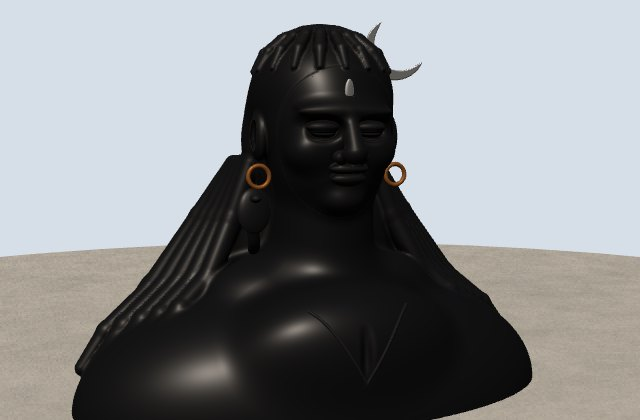
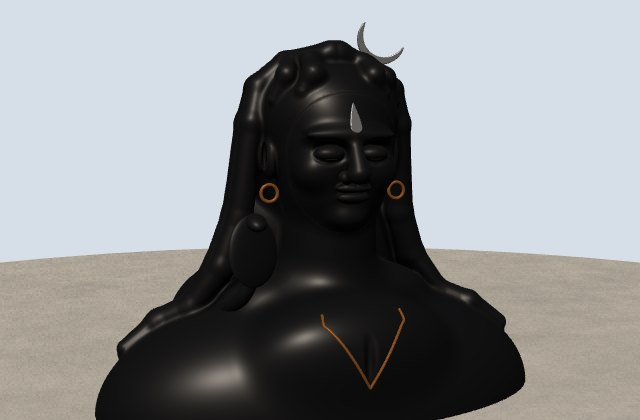
Adiyogi from photographs on every side: ropes of hair, the cobra on the shoulder, closed eyes
After photographs from the front, both profiles, below and behind (Wikimedia
Commons). The hair is now thick wavy ropes running from the crown over the head
and down the sides and the back to the ground, the ears left bare. The cobra
stands on his right shoulder with a broad hood. The third eye is a tall white
flame, the crescent thin and standing on the hair, the eyes fully closed, the
cord on the chest thin and dull.

Claude-Session: https://claude.ai/code/session_01TMbkMSndjAtdLzBZus9Ji6

diff --git a/js/monuments/adiyogi.js b/js/monuments/adiyogi.js
@@ -4,17 +4,19 @@ import { ellipsoid as E, cone, chain, blend, carve, mirrorX, flatBase, bounded, 
 import { detail } from '../detail.js';
 import { addDetails } from '../details/adiyogi.js';
 
-// Adiyogi at the Isha Yoga Centre near Coimbatore (2017), from photographs: a bust of Shiva as the
-// first yogi, 112 ft (34.24 m) high, 45 m across and 25 m deep, of black steel, at the foot of the
-// Velliangiri hills. The head, half the statue's height, stands on a thick neck that rises out of
-// very broad shoulders, which slope away to the ground on either side like a mound: there are no
-// arms. The face is calm and smooth, the eyes closed under arched lids, the lips full and a little
-// smiling; the third eye is a pale upright almond of bright steel on the brow. The hair is a mass
-// of matted locks piled into a knot, with a large pale crescent moon standing out of it on his
-// left, and it falls behind the neck in a broad cloak that spreads over the shoulders, long locks
-// running down them to the ground. A copper ring hangs in each ear. A cobra coils round the foot
-// of the neck and rears its hood beside it on his right, and a thin cord hangs in a V on the
-// chest. The bust faces +z; it stands on a low platform BASE high.
+// Adiyogi at the Isha Yoga Centre near Coimbatore (2017), from photographs taken from the front,
+// both sides, below and behind (Wikimedia Commons, "Adiyogi Shiva bust" and the Isha Yoga Centre
+// series): a bust of Shiva as the first yogi, 112 ft (34.24 m) high, 45 m across and 25 m deep, of
+// black steel, at the foot of the Velliangiri hills. The head, half the statue's height, stands on
+// a thick neck that rises out of very broad shoulders, which slope away to the ground on either
+// side like a mound: there are no arms. The face is calm and smooth, the eyes closed, the brows
+// arched, the lips full and a little smiling; the third eye is a tall white flame on the brow.
+// The hair is a mass of thick wavy ropes that start at the crown, sweep back over the head and
+// fall down the sides and the back to the shoulders and the ground, twice as deep as the head
+// behind. A thin bright crescent stands on the hair on his left, and a copper ring hangs in each
+// ear. A cobra stands on his right shoulder beside the neck, its broad hood spread and facing
+// forward as high as the jaw, and a thin cord hangs in a V on the chest. The bust faces +z; it
+// stands on a terrace BASE high.
 export const STEEL = mat('#1f1f22', 0.36, 0.55), BASE = 1.6, H = 34.24;
 const BRIGHT = mat('#c9ccd0', 0.3, 0.8), COPPER = mat('#b9753a', 0.35, 0.8);
 // The head's layout, after the face of the seated Shiva (js/parts/figures.js), in units P maps to
@@ -22,16 +24,30 @@ const BRIGHT = mat('#c9ccd0', 0.3, 0.8), COPPER = mat('#b9753a', 0.35, 0.8);
 const S = 0.62, HY = 24.3, HZ = 1.0;
 const P = (x, y, z) => [x * S, HY + y * S * 1.08, HZ + z * S], k = (v) => v * S;
 
-// The long locks over each shoulder: from behind the ear, down beside the neck and out along the
-// slope of the shoulder to the ground, five a side, fanning backwards.
-function locks(sx) {
-  return [0, 1, 2, 3, 4].map((j) => chain([
-    [sx * (6.2 + 0.25 * j), 21.5, -2.4 - 0.6 * j, 0.8],
-    [sx * (8.0 + 0.6 * j), 16.5, -2.4 - 0.7 * j, 1.0],
-    [sx * (10.5 + 1.2 * j), 11.2 - 0.35 * j, -1.2 - 0.9 * j, 1.0],
-    [sx * (13.2 + 1.5 * j), 9.0 - 0.6 * j, 0.2 - 1.0 * j, 0.9],
-    [sx * (15.4 + 1.5 * j), 6.6 - 0.75 * j, 1.2 - 1.1 * j, 0.7],
-  ], 0.3));
+// The top of the mound of the shoulders at (x, z), or 0 beyond it.
+const mound = (x, z) => { const q = 1 - (x / 22.5) ** 2 - ((z + 1) / 11.5) ** 2; return q > 0 ? 11.5 * Math.sqrt(q) : 0; };
+// The ropes of hair: each starts at the crown, runs over the head towards its own side (phi, the
+// angle from the front) and falls beside the neck and down the shoulders or the back, waving from
+// side to side as it goes. C is the middle of the hair's cap.
+function ropes(C) {
+  const out = [];
+  for (const sx of [-1, 1]) for (let i = 0; i < 10; i++) {
+    const phi0 = sx * (1.52 + i * 0.178), ph = i * 1.7 + (sx > 0 ? 0.6 : 0), pts = [[0.4 * sx, C[1] + 6.1, C[2] + 2.6, 1.0]];
+    const wave = (t) => phi0 + 0.13 * Math.sin(ph + t * 5.2);
+    [[1.02, 1.05], [0.5, 1.2], [-0.05, 1.25]].forEach(([e, r], n) => { const a = wave(n + 1); pts.push([C[0] + 7.5 * Math.sin(a) * Math.cos(e), C[1] + 6.3 * Math.sin(e), C[2] + 7.7 * Math.cos(a) * Math.cos(e), r]); });
+    [[8.8, 18.2], [10.6, 13.6], [13.2, 0], [16.2, 0], [19.4, 0]].forEach(([R, y], n) => {
+      const a = wave(n + 4), x = R * Math.sin(a), z = Math.max(-14.6, R * 0.8 * Math.cos(a) - 2.2);
+      pts.push([x, y || Math.max(0.6, mound(x, z) + 0.35), z, n < 4 ? 1.25 : 0.9]);
+    });
+    out.push([chain(pts, 0.4), 0.5]);
+  }
+  // Shorter ropes over the temples, from the crown down to above the ears, which stay bare.
+  for (const sx of [-1, 1]) for (const [a, e1] of [[0.62, 0.42], [1.08, 0.3]]) {
+    const pts = [[0.4 * sx, C[1] + 6.1, C[2] + 2.6, 0.9]];
+    for (const [e, r, w, q] of [[1.0, 1.0, 0.1, 1], [0.68, 1.1, -0.08, 1], [e1, 0.5, 0.06, 0.95]]) pts.push([C[0] + 7.4 * q * Math.sin(sx * (a + w)) * Math.cos(e), C[1] + 6.3 * Math.sin(e), C[2] + 7.6 * q * Math.cos(a + w) * Math.cos(e), r]);
+    out.push([chain(pts, 0.4), 0.5]);
+  }
+  return blend(out);
 }
 
 function adiyogiField() {
@@ -58,44 +74,32 @@ function adiyogiField() {
     [mirrorX(E(P(9.9, -0.4, -0.6), [k(1.3), k(3.5), k(2.5)])), k(0.6)],
   ]);
   head = carve(head, mirrorX(E(P(3.4, 0.5, 9.2), [k(2.4), k(1.5), k(2.0)])), k(0.9));
-  // The eyes half closed: the eyeball low in its socket, the upper lid heavy and drawn down over
-  // most of it, the lower lid a thin rim; full lips, the corners turned a little up.
+  // The eyes closed: the upper lid drawn right down over the eyeball to meet the lower, the line
+  // between them a shallow curve; full lips, the corners turned a little up.
   head = blend([[head, 0],
-    [mirrorX(E(P(3.4, 0.3, 7.8), [k(1.9), k(1.1), k(1.5)])), k(0.2)],
-    [mirrorX(E(P(3.4, 0.75, 8.1), [k(2.25), k(0.85), k(1.45)])), k(0.25)],
+    [mirrorX(E(P(3.4, 0.15, 8.35), [k(2.2), k(1.2), k(1.6)])), k(0.45)],
     [mirrorX(E(P(3.45, -0.85, 8.0), [k(1.9), k(0.3), k(0.95)])), k(0.3)],
     [E(P(0, -4.4, 9.4), [k(2.7), k(0.75), k(1.1)]), k(0.5)],
     [E(P(0, -5.65, 9.1), [k(2.4), k(0.9), k(1.1)]), k(0.5)]]);
   // The slit between the lids, the line between the lips, the philtrum, the ears' hollows.
-  head = carve(head, mirrorX(E(P(3.4, 0.02, 9.2), [k(1.7), k(0.12), k(0.7)])), k(0.12));
+  head = carve(head, mirrorX(E(P(3.4, -0.5, 9.85), [k(1.75), k(0.1), k(0.5)])), k(0.1));
+  head = carve(head, mirrorX(E(P(2.9, -4.85, 9.5), [k(0.3), k(0.22), k(0.3)])), k(0.2));
   head = carve(head, E(P(0, -5.05, 10.0), [k(2.7), k(0.17), k(1.0)]), k(0.2));
-  head = carve(head, E(P(0, -3.65, 10.25), [k(0.35), k(0.6), k(0.3)]), k(0.15));
+  head = carve(head, E(P(0, -3.65, 10.4), [k(0.3), k(0.5), k(0.2)]), k(0.2));
   head = carve(head, mirrorX(E(P(10.7, -0.2, -0.2), [k(0.5), k(2.0), k(1.2)])), k(0.25));
-  // The hair: a cap of locks over the skull, from a hairline high on the brow, and the knot,
-  // three rings of piled locks rising to the top; and the locks down the back.
-  const hair = blend([
-    [E(P(0, 4.8, -2.4), [k(10.6), k(9.6), k(11.0)]), 0],
-    [E(P(0, 10.4, -2.6), [k(6.2), k(2.8), k(5.8)]), k(1.4)],
-    [E(P(0, 12.8, -2.9), [k(4.4), k(2.1), k(4.2)]), k(1.0)],
-    [E(P(0, -1.0, -6.5), [k(11.0), k(12.0), k(6.0)]), k(2.0)],
+  // The hair: a full cap over the skull from a hairline high on the brow, deeper behind than the
+  // head itself, and the mass that falls behind the neck and spreads over the back of the
+  // shoulders; the ropes lie on both.
+  const C = P(0, 4.8, -3.0);
+  const cap = blend([
+    [E(C, [7.0, 6.2, 7.4]), 0],
+    [E(P(0, -1.0, -7.5), [k(11.4), k(12.0), k(7.0)]), k(2.0)],
   ]);
-  // The cloak of hair behind the neck, spreading over the shoulders.
-  const cloak = blend([[E([0, 15, -5.4], [10.5, 9, 4.6]), 0], [E([0, 8.5, -6.8], [16.5, 6.5, 4.8]), 3]]);
-  // Grooves between the coils of the knot and the locks of the cap.
-  let hairC = hair;
-  for (const [y, r] of [[9.2, 6.4], [11.6, 5.2], [13.6, 3.6]]) hairC = carve(hairC, (x, yy, z) => Math.hypot(Math.hypot(x, (z - P(0, 0, -2.6)[2]) * 1.05) - k(r), yy - P(0, y, 0)[1]) - k(0.35), k(0.3));
-  // The matted locks: ropes of hair running back from the hairline over the cap to the knot.
-  const C = P(0, 4.8, -2.4), ropes = [];
-  for (let i = -7; i <= 7; i++) {
-    const phi = i * 0.36, pts = [];
-    for (const [e, r] of [[0.4, 0.45], [0.7, 0.85], [1.02, 0.95], [1.3, 0.95]]) pts.push([C[0] + k(10.7) * Math.sin(phi) * Math.cos(e), C[1] + k(9.7) * Math.sin(e), C[2] + k(11.1) * Math.cos(phi) * Math.cos(e), k(r)]);
-    ropes.push([chain(pts, k(0.3)), k(0.35)]);
-  }
-  const headB = bounded(blend([[head, 0], [blend([[hairC, 0], ...ropes]), k(0.6)]]), [0, 25.5, -0.5], 13.5, 1.5);
-  const lockL = locks(-1), lockR = locks(1);
-  const locksF = blend([...lockL, ...lockR].map((f) => [f, 0.2]));
-  const all = (x, y, z) => smin(smin(smin(body(x, y, z), headB(x, y, z), 1.2), cloak(x, y, z), 0.8), locksF(x, y, z), 0.45);
-  return { f: flatBase(all, 0, 0.3), lo: [-24, -0.2, -14], hi: [24, H + 0.6, 12.5], head };
+  const headB = bounded(blend([[head, 0], [cap, k(0.6)]]), [0, 25.5, -0.5], 14.5, 1.5);
+  const fall = blend([[E([0, 15, -6.2], [9.5, 10, 5.0]), 0], [E([0, 7.5, -7.6], [14.5, 7.5, 5.6]), 3]]);
+  const hairF = blend([[fall, 0], [ropes(C), 0.6]]);
+  const all = (x, y, z) => smin(smin(body(x, y, z), headB(x, y, z), 1.2), hairF(x, y, z), 0.6);
+  return { f: flatBase(all, 0, 0.3), lo: [-24, -0.2, -16.5], hi: [24, H + 1.6, 12.5], head };
 }
 
 let fieldP = null;
@@ -113,43 +117,44 @@ function bustMesh() {
 // What is laid on the skin: the cobra, the cord, the crescent, the third eye and the earrings.
 function ornaments() {
   const f = parts().f, g = new THREE.Group(), V = (p) => new THREE.Vector3(...p);
-  // The cobra: its body comes round the back of the neck and over his right shoulder, then rises
-  // beside the neck, the hood spread and facing forward at the height of the jaw.
-  const coil = [[4.2, 13.2, -4.4], [0, 13.4, -5.7], [-4.2, 13.4, -4.2], [-6.1, 13.7, -1.6]];
-  const rise = [[-6.6, 14.6, 0.4], [-6.9, 15.9, 1.1], [-7.0, 17.0, 1.7]];
-  const curve = new THREE.CatmullRomCurve3([...coil, ...rise].map(V));
-  g.add(mesh(new THREE.TubeGeometry(curve, detail.low ? 60 : 120, 0.55, detail.low ? 8 : 12, false), STEEL));
-  const hood = mesh(new THREE.SphereGeometry(1, 20, 14), STEEL, -7.0, 17.6, 1.9);
-  hood.scale.set(1.5, 2.0, 0.5);
-  hood.rotation.x = -0.15;
-  const snout = mesh(new THREE.SphereGeometry(0.55, 14, 10), STEEL, -7.0, 18.7, 2.5);
-  snout.scale.set(0.9, 0.7, 1.3);
+  // The cobra on his right shoulder: its body comes out of the hair behind, rises beside the neck
+  // and spreads a broad hood, hollowed in front, with the head at its top looking forward.
+  const body = new THREE.CatmullRomCurve3([[-11.2, 9.2, -1.2], [-10.3, 10.2, 1.4], [-9.4, 11.4, 3.0], [-8.8, 13.0, 3.6], [-8.6, 14.4, 3.7]].map(V));
+  g.add(mesh(new THREE.TubeGeometry(body, 40, 0.75, 12, false), STEEL));
+  const hood = mesh(new THREE.SphereGeometry(1, 28, 20), STEEL, -8.6, 15.6, 3.8);
+  hood.scale.set(2.5, 3.3, 0.6);
+  hood.rotation.set(-0.12, 0.25, 0);
+  const snout = mesh(new THREE.SphereGeometry(1, 16, 12), STEEL, -8.5, 18.3, 4.6);
+  snout.scale.set(0.95, 0.7, 1.35);
+  snout.rotation.x = 0.35;
   g.add(hood, snout);
   // The cord: two thin lines from the sides of the neck, meeting low on the chest.
   for (const sx of [-1, 1]) {
     const pts = [];
     for (let i = 0; i <= 14; i++) { const t = i / 14; pts.push([sx * 4.8 * (1 - t), 12.2 - 8.2 * t, 12]); }
-    g.add(mesh(new THREE.TubeGeometry(new THREE.CatmullRomCurve3(onSkin(f, pts, 0.1).map(V)), 60, 0.14, 6), STEEL));
+    g.add(mesh(new THREE.TubeGeometry(new THREE.CatmullRomCurve3(onSkin(f, pts, 0.1).map(V)), 60, 0.14, 6), COPPER));
   }
-  // The crescent in the knot, on his left: of bright steel, its belly against the hair, one horn
-  // in the locks and the other standing out to the side.
-  const R = 2.7, lune = new THREE.Shape(), N = 28;
-  for (let i = 0; i <= N; i++) { const a = (i / N * 2 - 1) * 1.85; lune[i ? 'lineTo' : 'moveTo'](R * Math.cos(a), R * Math.sin(a)); }
-  for (let i = N; i >= 0; i--) { const t = i / N * 2 - 1, a = t * 1.85, r = R - 0.85 * (1 - t * t) ** 0.8; lune.lineTo(r * Math.cos(a), r * Math.sin(a)); }
-  const moon = mesh(new THREE.ExtrudeGeometry(lune, { depth: 0.3, bevelEnabled: true, bevelThickness: 0.08, bevelSize: 0.08, bevelSegments: 2 }).translate(0, 0, -0.15), BRIGHT);
-  moon.position.set(6.3, 31.9, HZ + k(1.5));
-  moon.rotation.set(0, -0.25, 3.95);
+  // The crescent standing on the hair, on his left: thin, of bright steel, its horns turned up.
+  const R = 2.3, lune = new THREE.Shape(), N = 28;
+  for (let i = 0; i <= N; i++) { const a = (i / N * 2 - 1) * 1.8; lune[i ? 'lineTo' : 'moveTo'](R * Math.cos(a), R * Math.sin(a)); }
+  for (let i = N; i >= 0; i--) { const t = i / N * 2 - 1, a = t * 1.8, r = R - 0.6 * (1 - t * t) ** 0.8; lune.lineTo(r * Math.cos(a), r * Math.sin(a)); }
+  const moon = mesh(new THREE.ExtrudeGeometry(lune, { depth: 0.26, bevelEnabled: true, bevelThickness: 0.07, bevelSize: 0.07, bevelSegments: 2 }).translate(0, 0, -0.13), BRIGHT);
+  moon.position.set(5.0, 35.3, HZ + k(0.4));
+  moon.rotation.set(0, -0.2, 4.15);
   g.add(moon);
-  // The third eye: a pale upright almond on the brow.
-  const eye = mesh(new THREE.SphereGeometry(1, 16, 20), BRIGHT);
-  eye.scale.set(0.42, 1.15, 0.16);
-  // Set on the brow by stepping in along z until the skin is met.
-  let ez = 10;
-  while (f(0, P(0, 5.0, 0)[1], ez) > 0 && ez > 4) ez -= 0.02;
-  eye.position.set(0, P(0, 5.0, 0)[1], ez);
+  // The third eye: a tall white flame on the brow, round below and pointed above.
+  const flame = new THREE.Shape();
+  for (let i = 0; i <= 24; i++) { const a = Math.PI + (i / 24) * Math.PI; flame[i ? 'lineTo' : 'moveTo'](0.5 * Math.cos(a), 0.5 * Math.sin(a)); }
+  flame.quadraticCurveTo(0.42, 1.0, 0, 2.3); flame.quadraticCurveTo(-0.42, 1.0, -0.5, 0);
+  const eye = mesh(new THREE.ExtrudeGeometry(flame, { depth: 0.2, bevelEnabled: true, bevelThickness: 0.06, bevelSize: 0.06, bevelSegments: 2 }), BRIGHT);
+  // Set on the brow by stepping in along z until the skin is met, and leant back with it.
+  const ey = P(0, 3.6, 0)[1], skin = (y) => { let z = 11; while (f(0, y, z) > 0 && z > 3) z -= 0.02; return z; };
+  const z0 = skin(ey), z1 = skin(ey + 2.2);
+  eye.position.set(0, ey, z0 - 0.12);
+  eye.rotation.x = -Math.atan2(z0 - z1, 2.2);
   g.add(eye);
   // A copper ring hanging from each ear lobe.
-  for (const s of [-1, 1]) g.add(mesh(new THREE.TorusGeometry(0.95, 0.2, 10, 28), COPPER, s * (k(10.3) + 0.1), HY - k(5.6) * 1.08, HZ + k(1.2)));
+  for (const s of [-1, 1]) g.add(mesh(new THREE.TorusGeometry(0.8, 0.17, 10, 28), COPPER, s * (k(10.3) + 0.1), HY - k(5.4) * 1.08, HZ + k(1.2)));
   return g;
 }
 
@@ -165,6 +170,6 @@ export function buildAdiyogi() {
   g.add(f);
   f.add(at(adiyogi(), 0, BASE, 0));
   addDetails(f, g, { BASE });
-  // Square on to the face, from the forecourt, looking up.
-  return { group: g, focus: f, view: [-0.12, 0.1, 1], zoom: 0.9 };
+  // From the forecourt, a little to his right, looking up at the face.
+  return { group: g, focus: f, view: [-0.28, 0.04, 1], zoom: 0.9 };
 }

diff --git a/docs/components.md b/docs/components.md
@@ -201,7 +201,7 @@ against photographs. The colossal ones are drawn first; the rest follow by monum
 | Bahubali | [Gommateshwara](https://monuments-of-india-nu.vercel.app/#gommateshwara) | 17.4 m of granite in kayotsarga: column legs, long-fingered hands on the anthills, creepers rising up the thighs in a V and winding up the arms, curls, long earlobes, on a lotus | `bahubaliBody` (figures), `bahubali()` (gommateshwara) |
 | Thiruvalluvar | [Vivekananda Rock Memorial](https://monuments-of-india-nu.vercel.app/#vivekananda-rock-memorial) | 29 m, built of granite blocks whose joints show: right hand raised with three fingers, left holding the palm-leaf book, the hips swaying, full beard and hair knot; on the Alankara Mandapam | `thiruvalluvarBody` (figures), `thiruvalluvar()` (vivekananda-rock-memorial) |
 | Shiva | [Nageshwar Temple](https://monuments-of-india-nu.vercel.app/#nageshwar-temple) | 25 m of painted concrete in the half lotus: four arms with trishul, damru, Om on the raised palm; malas, cobra with its hood beside the ear, tiger skins, the band of ash and the third eye painted, combed jata with the crescent | `shivaBody` (figures), `mahayogiShiva()` (nageshwar-temple details) |
-| Adiyogi | [Adiyogi Shiva Statue](https://monuments-of-india-nu.vercel.app/#adiyogi) | A bust 112 ft high and 45 m across in black steel: the head on a thick neck rising from broad shoulders that slope to the ground; the calm face with closed eyes, a bright steel third eye, matted locks piled on the head and falling in a cloak over the shoulders, a pale crescent on his left, copper rings in the ears, a cobra rearing beside the neck on his right and a thin cord on the chest; before it the pavilion of the Yogeshwar linga | `adiyogi()` (adiyogi) |
+| Adiyogi | [Adiyogi Shiva Statue](https://monuments-of-india-nu.vercel.app/#adiyogi) | A bust 112 ft high and 45 m across in black steel: the head on a thick neck rising from broad shoulders that slope to the ground; the calm face with closed eyes, a tall white flame for the third eye, thick wavy ropes of hair running from the crown down the sides and the back to the ground, a thin bright crescent standing on the hair on his left, copper rings in the bare ears, a cobra standing on his right shoulder with its hood spread and a thin cord on the chest; before it the pavilion of the Yogeshwar linga | `adiyogi()` (adiyogi) |
 | Adi Shankaracharya | [Kedarnath Temple](https://monuments-of-india-nu.vercel.app/#kedarnath-temple) | 12 ft of black chlorite schist, seated cross-legged: long hair, three malas and armbands, the right hand in the gesture of teaching holding the flagged staff, the left on the knee with a palm-leaf book; on a lotus bud on a post in a pool | `crossLegged` (figures), `shankaracharya()` (kedarnath-temple) |
 | Statue of Oneness | [Omkareshwar](https://monuments-of-india-nu.vercel.app/#omkareshwar-temple) | 108 ft of bronze: Shankaracharya as a boy of twelve, walking, the staff across him, the water pot in his left hand, mala and rudraksha bands, on an open lotus | `shankaraBody` (figures), `statueOfOneness()` (omkareshwar-temple details) |
 | Ramanuja | [Statue of Equality](https://monuments-of-india-nu.vercel.app/#statue-of-equality) | Gilt, seated cross-legged with the hands joined in anjali: shaven head, long earlobes with rings, the urdhva pundra on the brow, the sacred thread and bead strings, the tridandam (three staves bound as one) leaning across the chest with its flag; on a lotus over a ring of elephants | `crossLegged` (figures), `ramanuja()` (statue-of-equality) |
